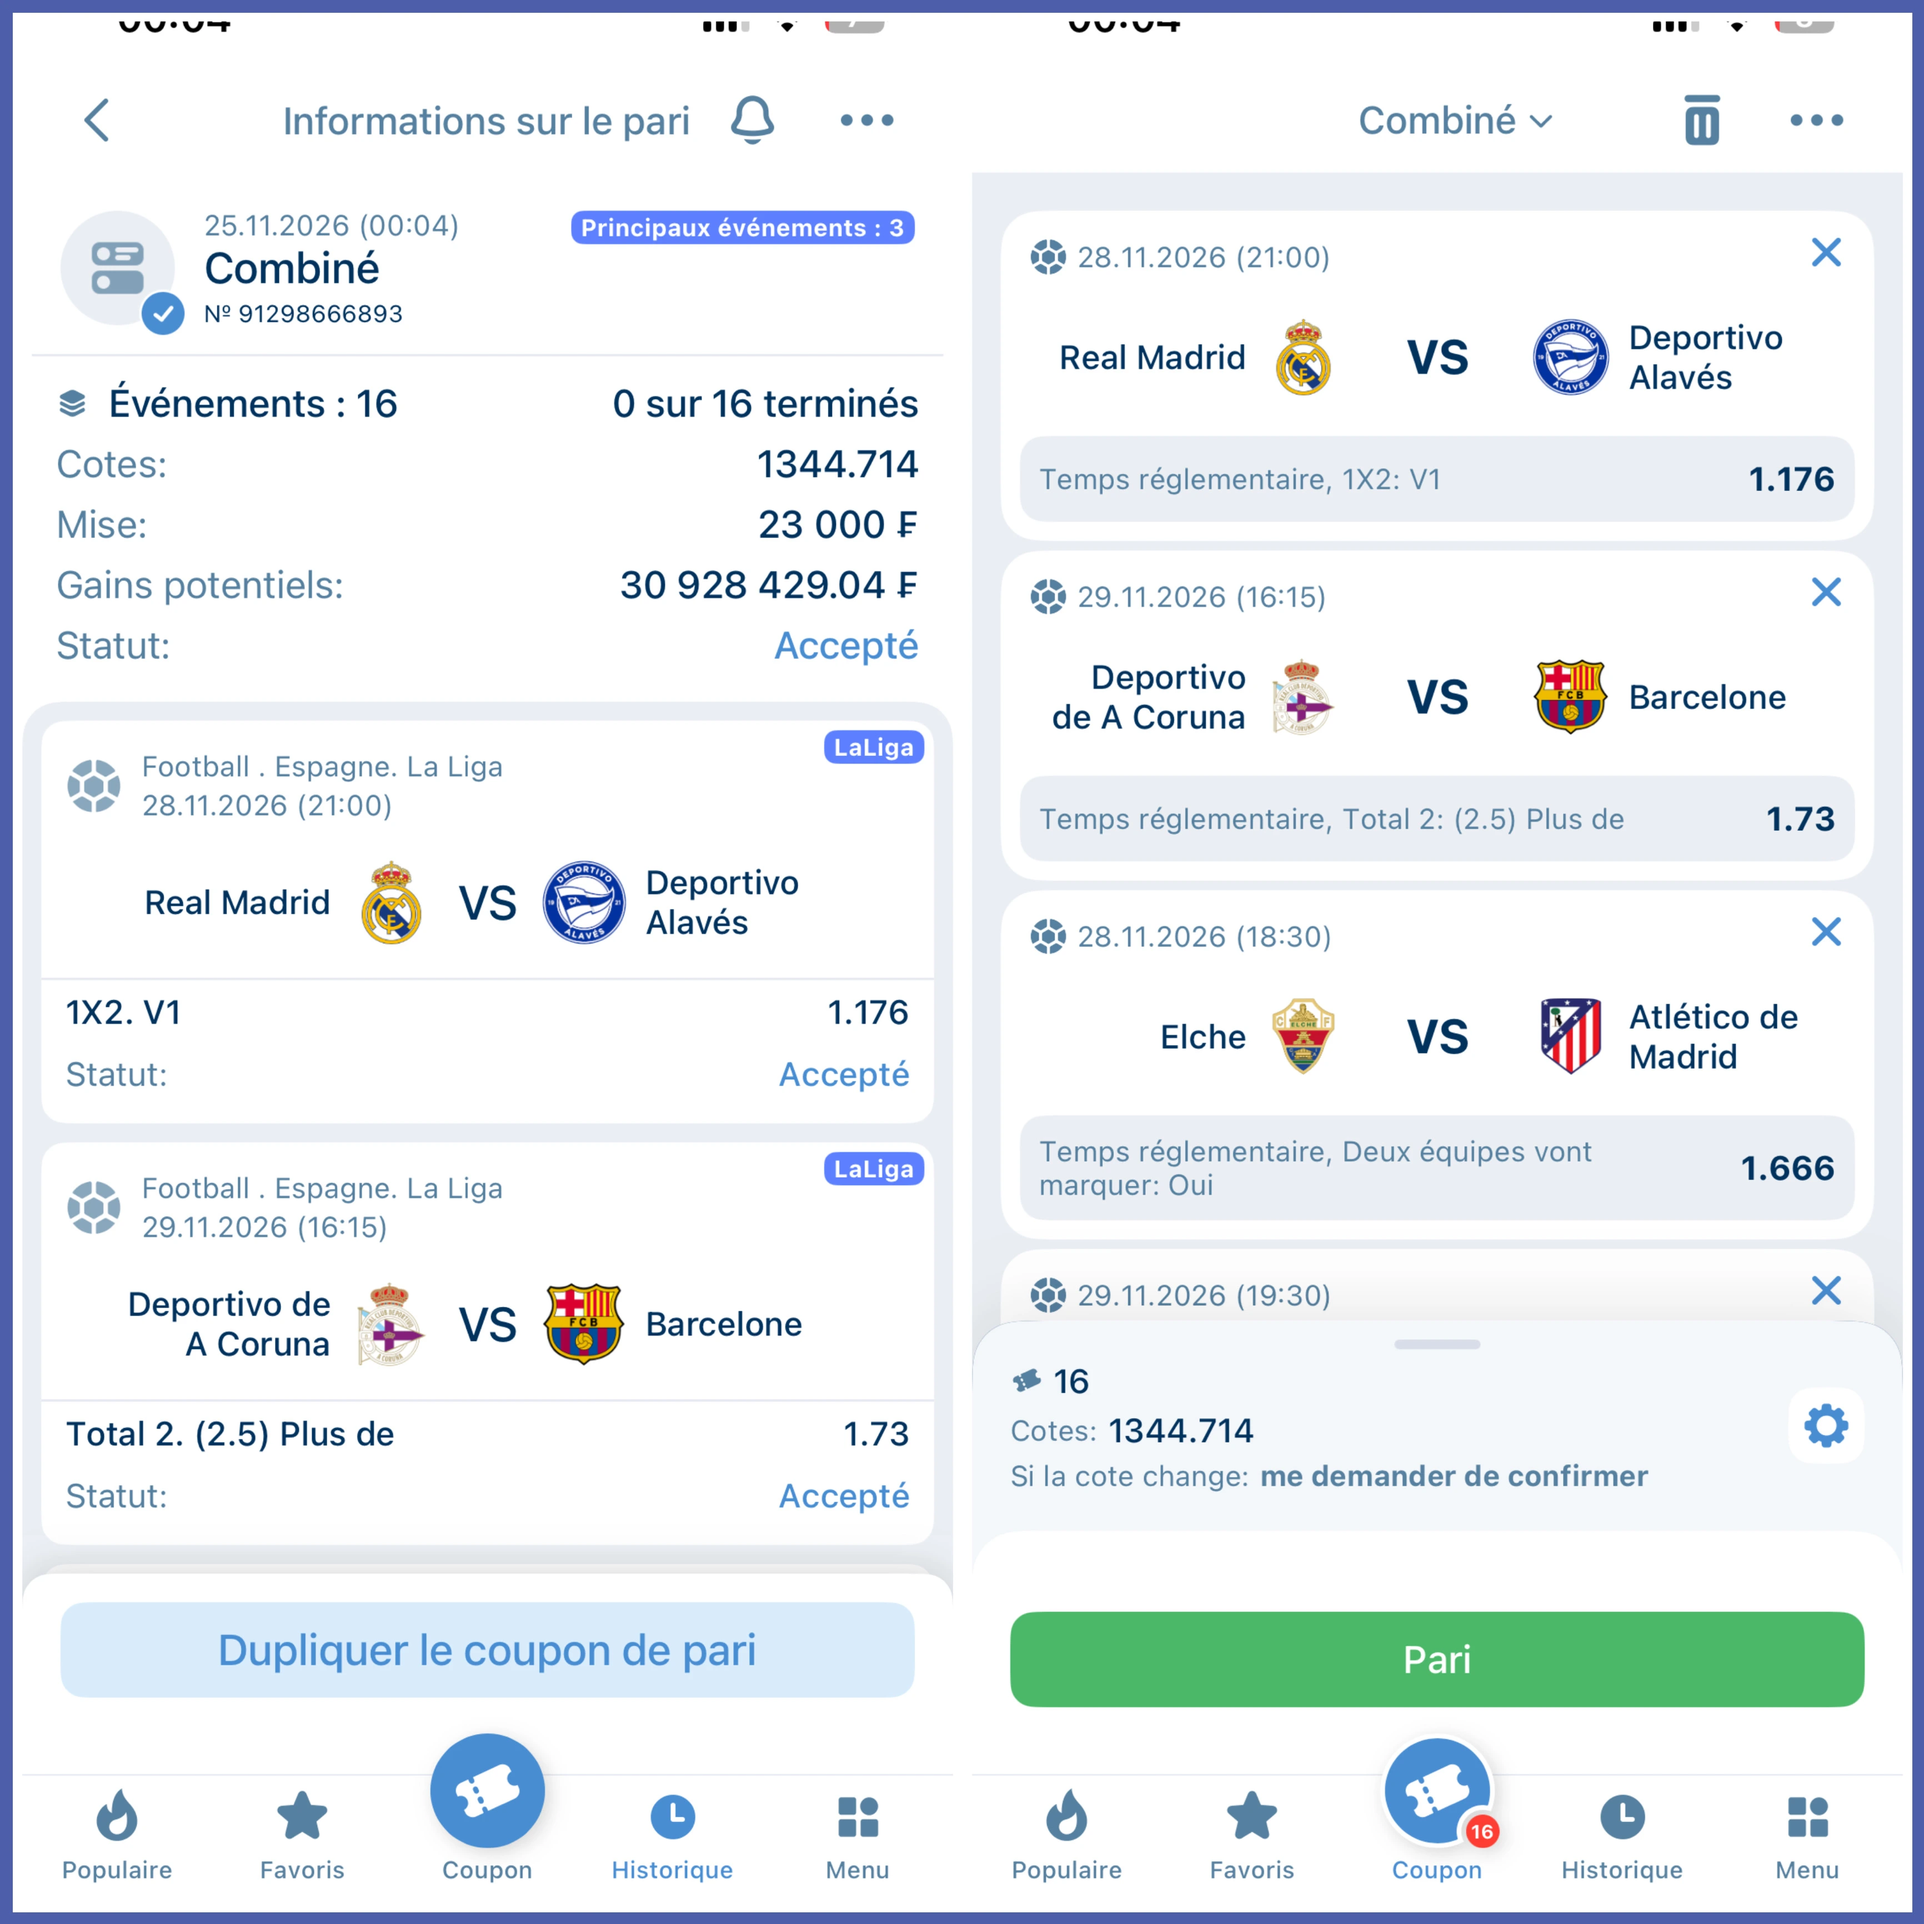
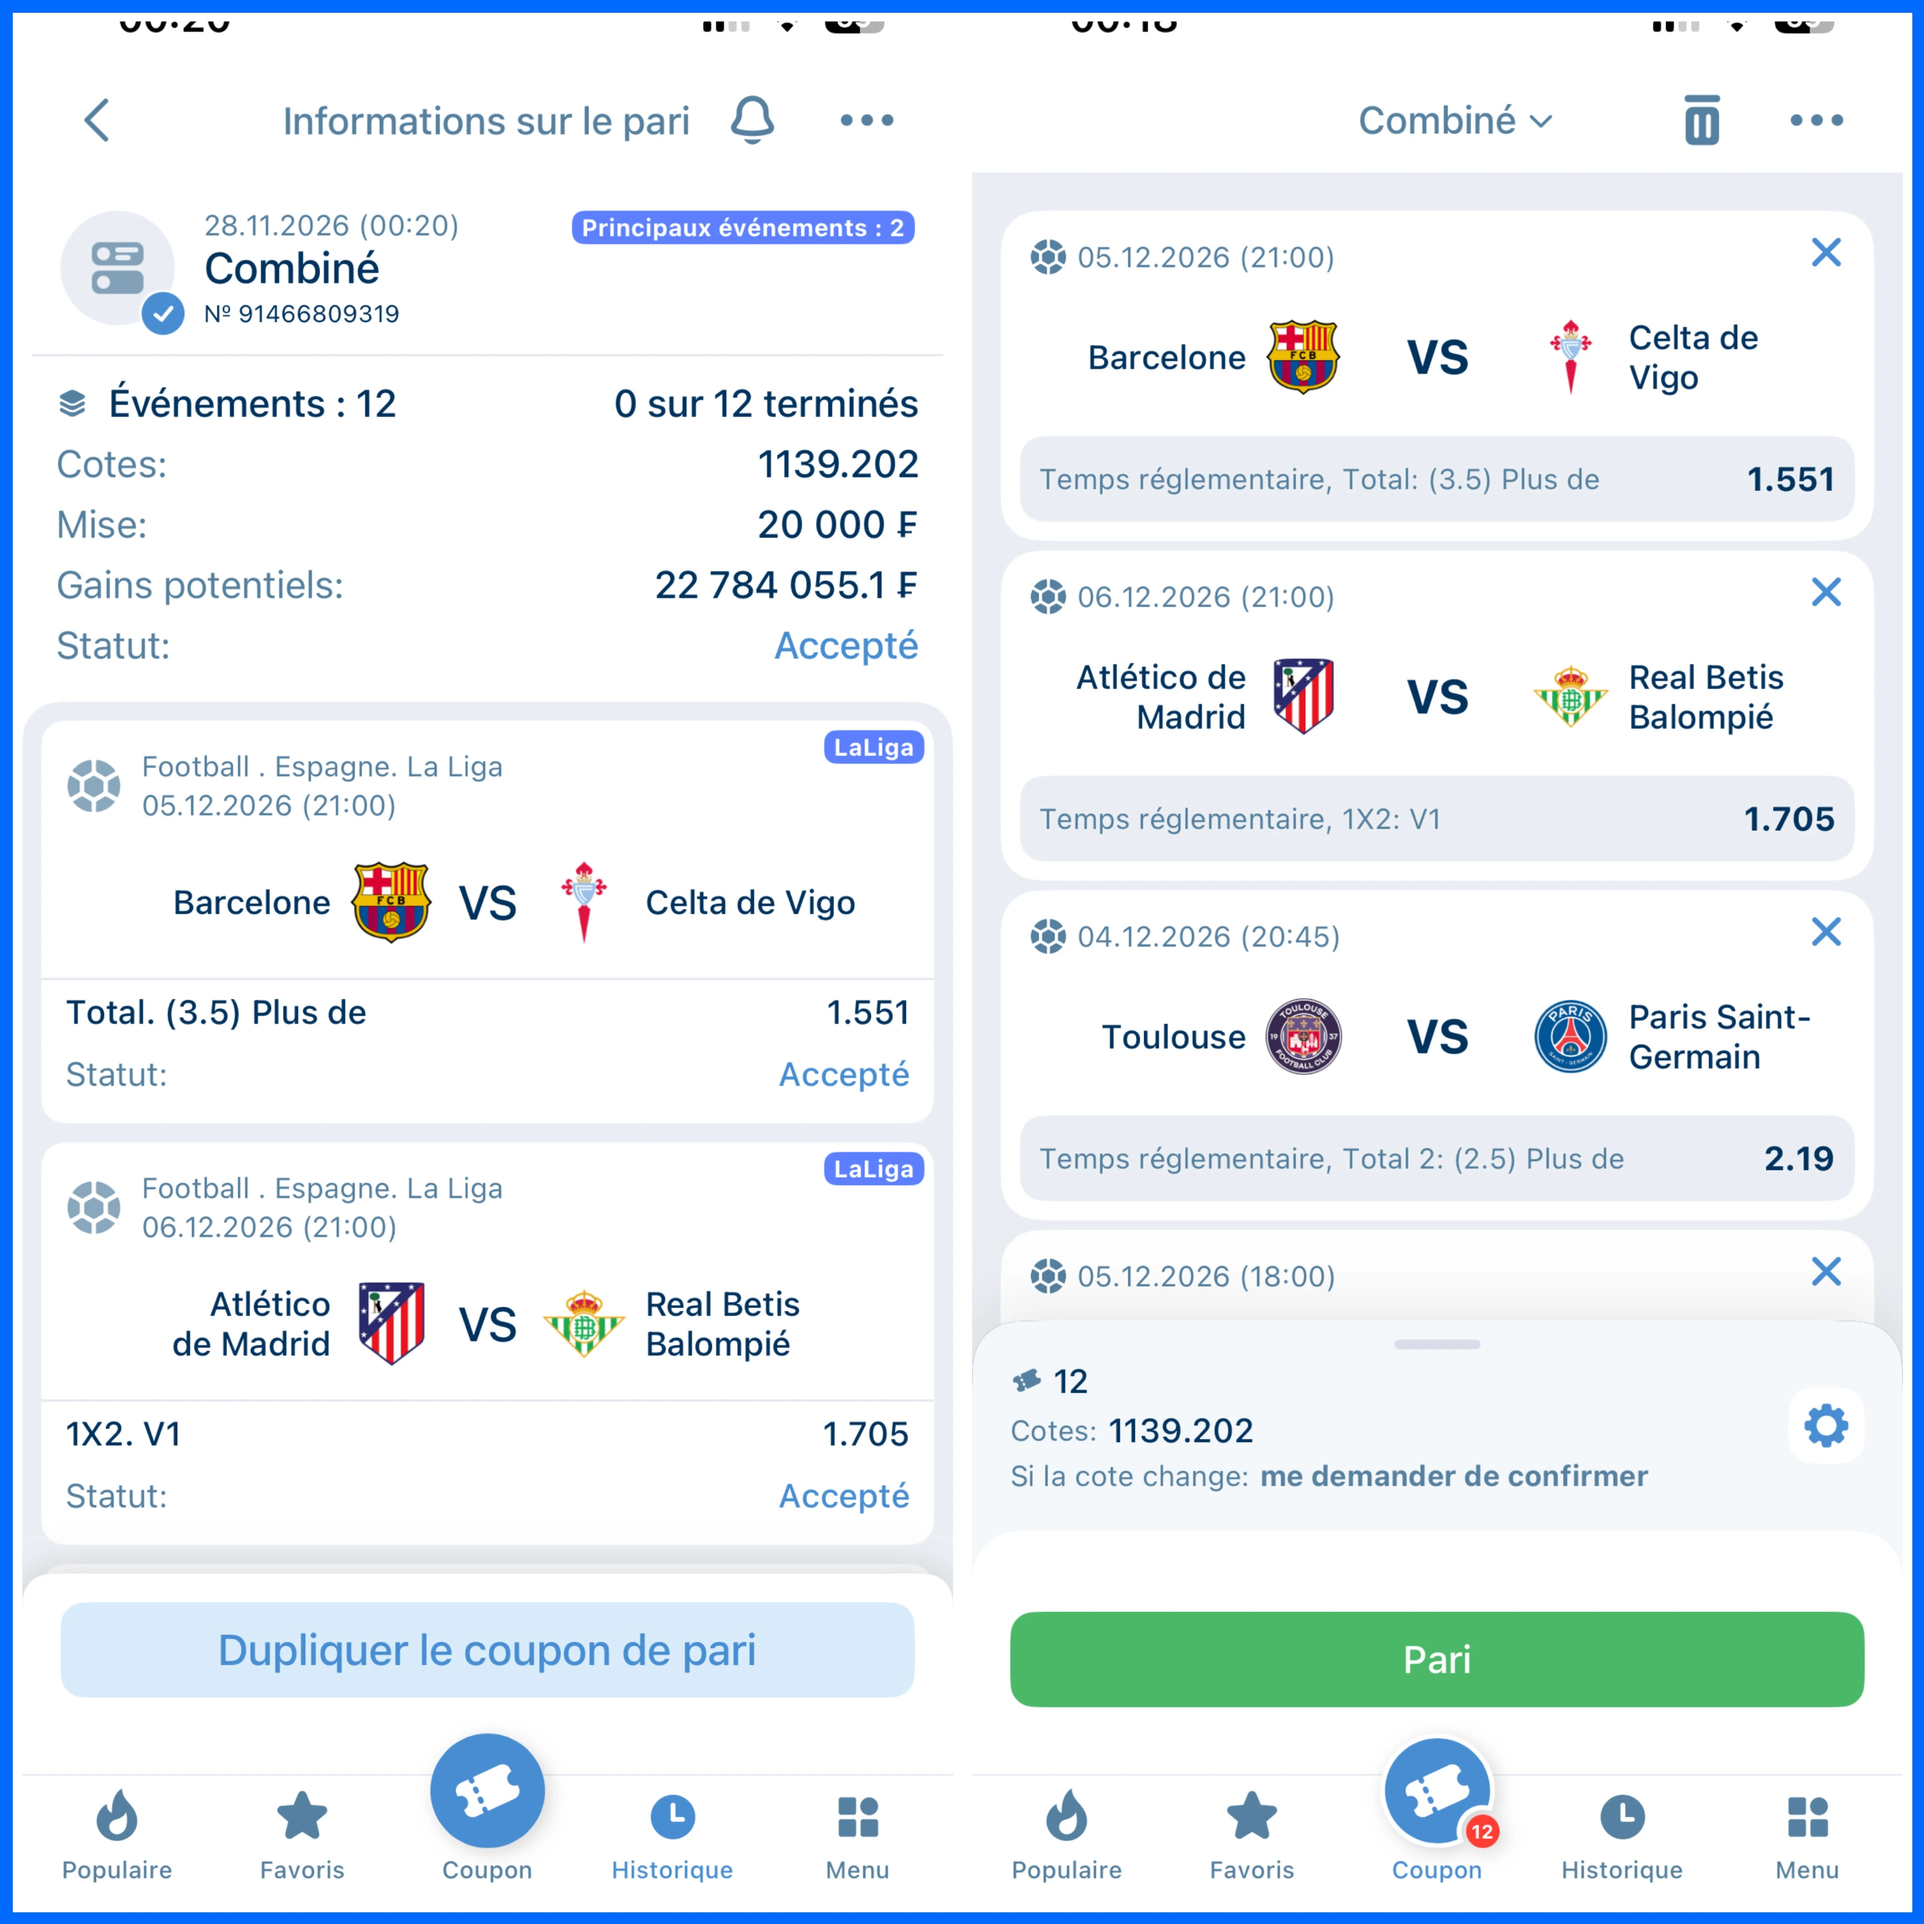
R700 28_11 ads

diff --git a/src/constants/data.ts b/src/constants/data.ts
@@ -2,10 +2,10 @@ import { CouponData, WinningCoupon } from "@/types/dataTypes";
 
 export const COUPON_DATA: CouponData = {
   id: 1,
-  odds: 1344.714,
-  stake: 23000,
-  gain: 30928429.04,
-  date: "28/11/2026",
+  odds: 1139.202,
+  stake: 20000,
+  gain: 22784055.1,
+  date: "04/12/2026",
   image_url: "/assets/coupon_jour.webp",
   whatsapp_link: "https://whatsapp.com/channel/0029VbBQO9YFi8xh4alTcn1e",
 };
@@ -16,51 +16,51 @@ export const COUPON_DATA: CouponData = {
 export const WONNING_COUPONS: WinningCoupon[] = [
   {
     id: 0,
-    odds: 428.596,
+    odds: 736.37,
     stake: 5000,
-    gain: 2142979.67,
-    date: "16/11/2026",
+    gain: 3681850.51,
+    date: "26/11/2026",
     image_url: "/assets/won_0.jpg",
   },
   {
     id: 1,
-    odds: 332.878,
+    odds: 439.094,
     stake: 5000,
-    gain: 1664390.53,
-    date: "15/11/2026",
+    gain: 2195470.95,
+    date: "25/11/2026",
     image_url: "/assets/won_1.jpg",
   },
   {
     id: 2,
-    odds: 511.743,
+    odds: 423.563,
     stake: 5000,
-    gain: 2558715.53,
-    date: "15/11/2026",
+    gain: 2117819.74,
+    date: "24/11/2026",
     image_url: "/assets/won_2.jpg",
   },
   {
     id: 3,
-    odds: 361.743,
+    odds: 407.777,
     stake: 5000,
-    gain: 1808717.36,
-    date: "21/10/2026",
-    image_url: "/assets/won_3.png",
+    gain: 2038888.5,
+    date: "23/11/2026",
+    image_url: "/assets/won_3.jpg",
   },
   {
     id: 4,
-    odds: 518.338,
+    odds: 492.682,
     stake: 5000,
-    gain: 2591694.37,
-    date: "19/10/2026",
-    image_url: "/assets/won_4.png",
+    gain: 2463411.39,
+    date: "22/11/2026",
+    image_url: "/assets/won_4.jpg",
   },
   {
     id: 5,
-    odds: 226.61,
+    odds: 517.66,
     stake: 5000,
-    gain: 1133051.79,
-    date: "18/10/2026",
-    image_url: "/assets/won_5.png",
+    gain: 2588300.12,
+    date: "21/11/2026",
+    image_url: "/assets/won_5.jpg",
   },
   // {
   //   id: 6,
